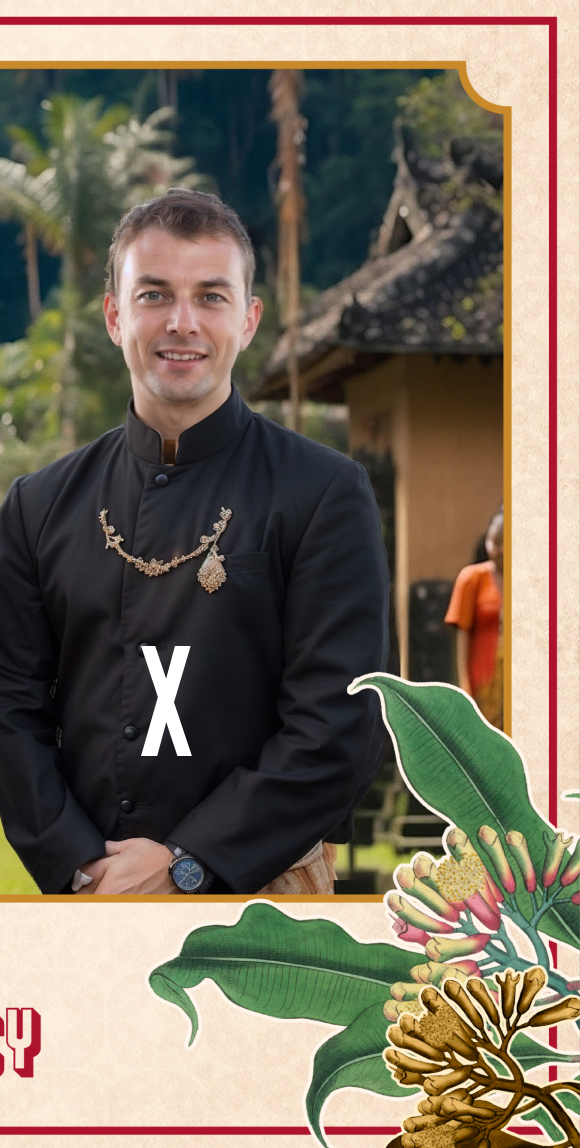
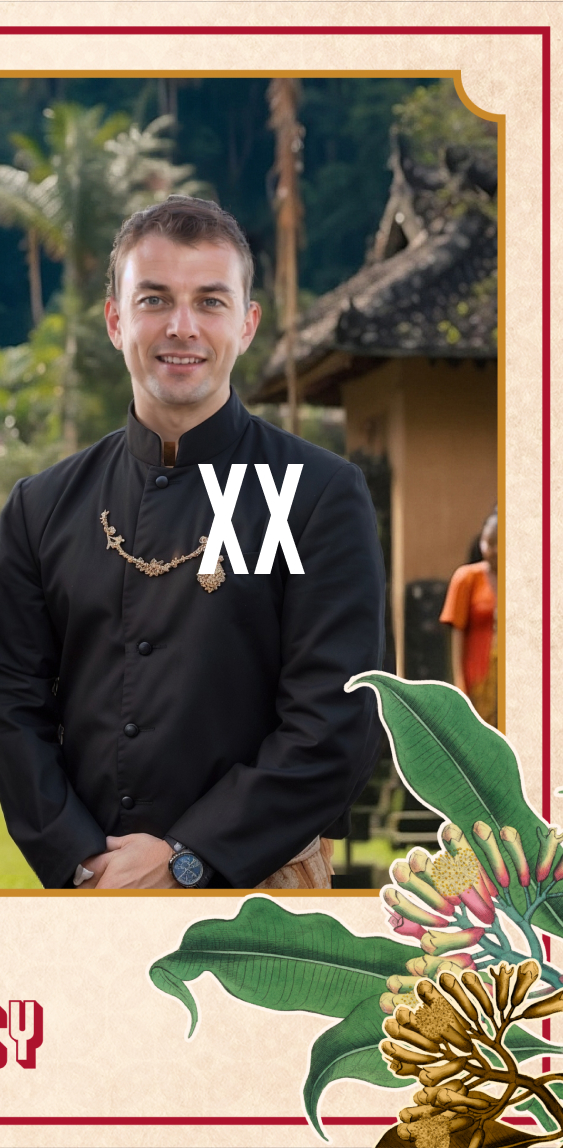
upd

diff --git a/app/hms-farewell/result/page.js b/app/hms-farewell/result/page.js
@@ -186,9 +186,9 @@ export default function Result() {
                 <div className='relative w-[1020px] mt-4 mx-auto flex justify-center items-center' onClick={downloadImageAI}>
                     <div className='relative' id='capture' ref={(el) => (componentRef = el)}>
                         <div className={`relative w-full flex`}>
-                            <Image src={imageResultAI}  width={580} height={1148} alt='Zirolu' className='relative block w-1/3'></Image>
-                            <Image src={imageResultAI2}  width={580} height={1148} alt='Zirolu' className='relative block w-1/3'></Image>
-                            <Image src={imageResultAI3}  width={580} height={1148} alt='Zirolu' className='relative block w-1/3'></Image>
+                            <Image src={imageResultAI}  width={563} height={1148} alt='Zirolu' className='relative block w-1/3'></Image>
+                            <Image src={imageResultAI2}  width={563} height={1148} alt='Zirolu' className='relative block w-1/3'></Image>
+                            <Image src={imageResultAI3}  width={563} height={1148} alt='Zirolu' className='relative block w-1/3'></Image>
                         </div>
                     </div>
                     {/* <div id='canvasResult' className='absolute top-0 left-0 right-0 bottom-0 z-10'></div> */}
